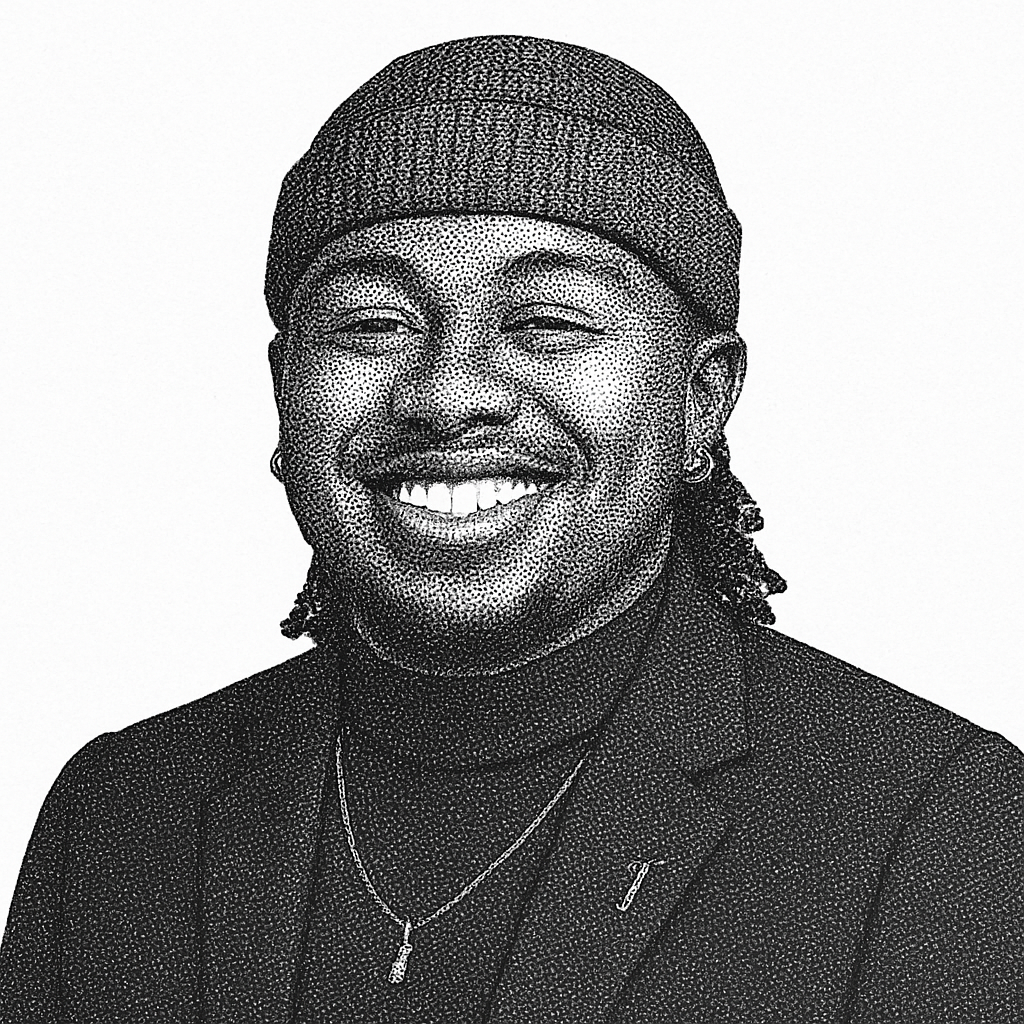
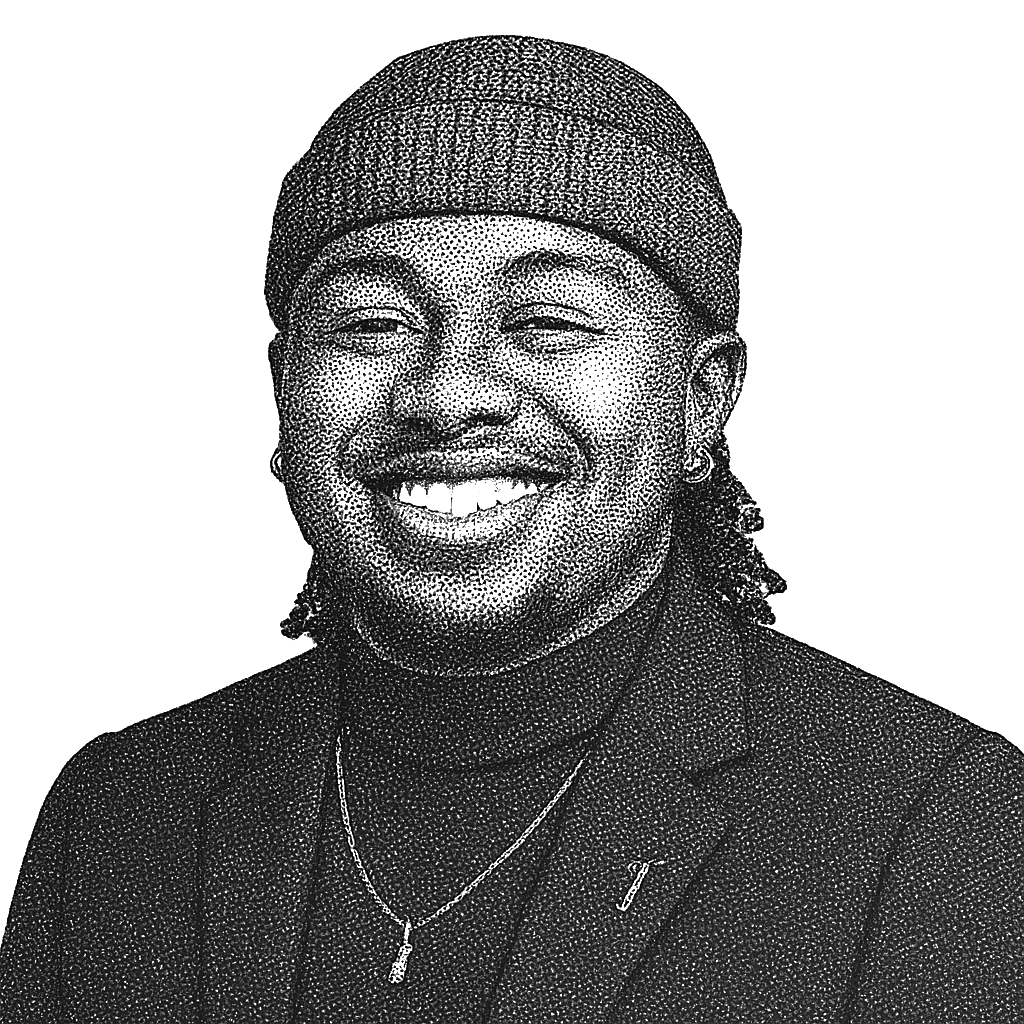
Make the current headshots (Matt, Isaac, Jaime) transparent

Changed region(s): [[0.2812, 0.0312, 0.7188, 0.625], [0.7188, 0.5625, 0.75, 0.5938]]

diff --git a/_layouts/default.html b/_layouts/default.html
@@ -30,8 +30,8 @@
                 <a href="{{ "/articles/" | relative_url }}">Articles</a>
                 <a href="{{ "/posters/" | relative_url }}">Posters</a>
                 <a href="{{ "/references/" | relative_url }}">References</a>
-                <a href="{{ "/resources/" | relative_url }}">Resources</a>
                 <a href="{{ "/contributors/" | relative_url }}">Contributors</a>
+                <a href="{{ "/resources/" | relative_url }}">Resources</a>
             </nav>
 
         </nav>
@@ -53,6 +53,9 @@
                 / {{ page.title }}
             </span>
 
+            {% elsif url == "/references/" %}
+            <span> / References</span>
+            
             {% elsif url contains "/references/" %}
             <span>
                 / <a href="{{ "/references/" | relative_url }}">References</a>
@@ -77,8 +80,6 @@
                 / {{ page.title }}
             </span>
 
-            {% elsif url == "/references/" %}
-            <span> / References</span>
 
             {% elsif url == "/resources/" %}
             <span> / Resources</span>

diff --git a/assets/zine.css b/assets/zine.css
@@ -376,7 +376,7 @@ img.poster-large {
 .article-references-link {
     margin: 0.5rem 0 0.5rem;
     text-align: right;
-    font-size: 1.1rem;
+    font-size: 1.15rem;
     font-weight: 750;
     /* bold instead of italic */
     color: #666;

diff --git a/articles/article1.md b/articles/article1.md
@@ -1,7 +1,7 @@
 ---
 layout: article
 title: "The Gentile Strike Isn't"
-subtitle: "A protester injury by any other name would bleed just as quick"
+subtitle: "A protester injury by any other name would bleed just as free"
 poster: happiness
 contributor: "Matt Holmes"
 contributor_slug: matt
